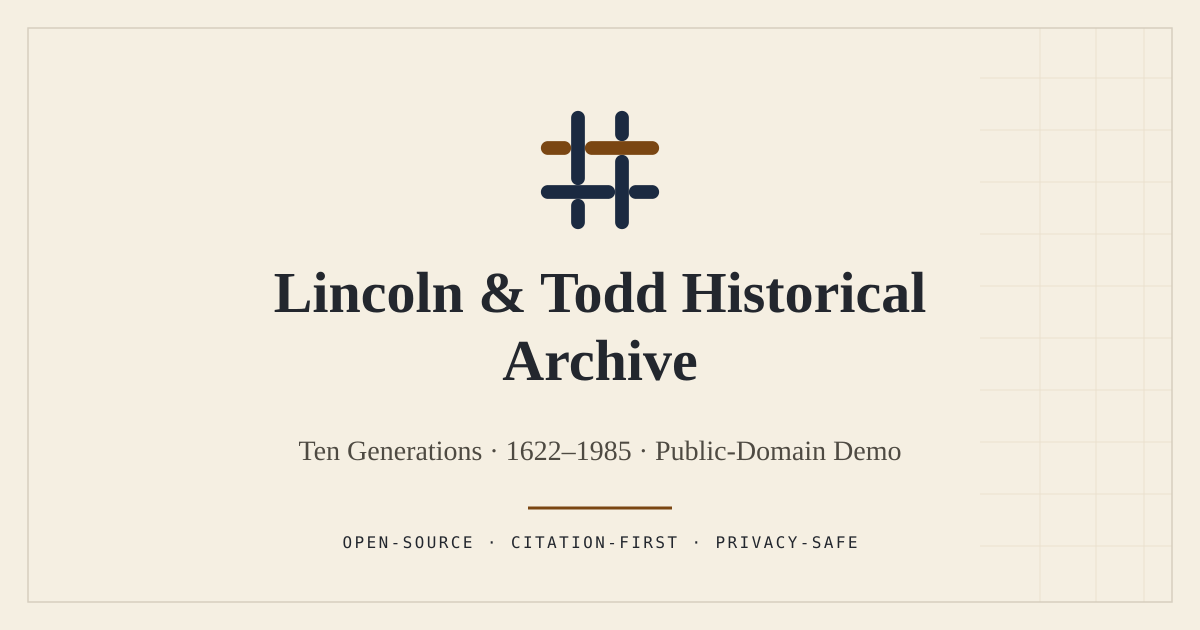
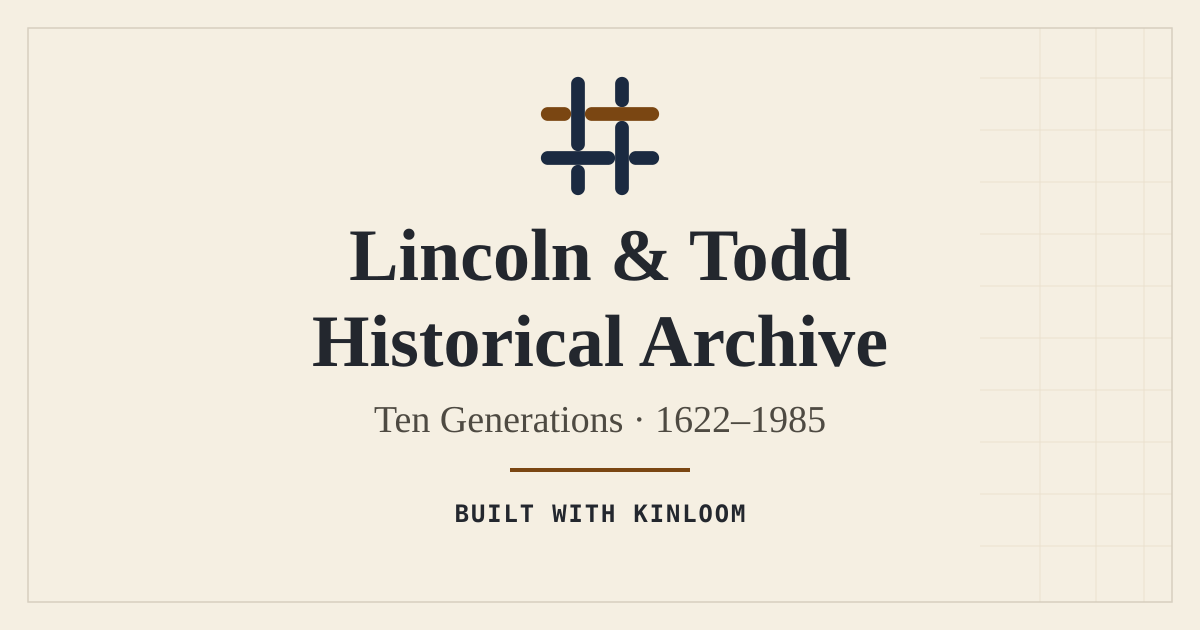
fix(brandkit): enlarge OG card typography and simplify copy for mobile readability

Changed region(s): [[0.2158, 0.1206, 0.7708, 0.6032], [0.2467, 0.6333, 0.74, 0.754], [0.2775, 0.7841, 0.7092, 0.8746]]

diff --git a/packages/core/src/brandkit.ts b/packages/core/src/brandkit.ts
@@ -361,36 +361,36 @@ export function renderOgCardSvg(options: {
     .join('\n    ');
 
   if (options.vignetteDataUri) {
-    const titleLines = wrapTextLines(options.title, 20, 2);
-    const titleFontSize = titleLines.some((line) => line.length > 16) ? 54 : 62;
-    const titleStartY = titleLines.length === 1 ? 268 : 246;
+    const titleLines = wrapTextLines(options.title, 18, 2);
+    const titleFontSize = titleLines.some((line) => line.length > 14) ? 62 : 70;
+    const titleStartY = titleLines.length === 1 ? 268 : 238;
     const titleSvg = titleLines
       .map(
         (line, idx) =>
-          `<text x="96" y="${titleStartY + idx * (titleFontSize + 10)}" fill="${titleColor}" font-family="${serifFont}" font-size="${titleFontSize}" font-weight="600">${escapeXml(line)}</text>`
+          `<text x="90" y="${titleStartY + idx * (titleFontSize + 12)}" fill="${titleColor}" font-family="${serifFont}" font-size="${titleFontSize}" font-weight="700">${escapeXml(line)}</text>`
       )
       .join('\n    ');
 
-    const ruleY = titleStartY + titleLines.length * (titleFontSize + 10) + 12;
-    const subtitleLines = wrapTextLines(options.subtitle, 34, 2);
+    const ruleY = titleStartY + titleLines.length * (titleFontSize + 12) + 14;
+    const subtitleLines = wrapTextLines(options.subtitle, 28, 2);
     const subtitleSvg = subtitleLines
       .map(
         (line, idx) =>
-          `<text x="96" y="${ruleY + 42 + idx * 32}" fill="${subtitleColor}" font-family="${serifFont}" font-size="26">${escapeXml(line)}</text>`
+          `<text x="90" y="${ruleY + 48 + idx * 42}" fill="${subtitleColor}" font-family="${serifFont}" font-size="34" font-weight="500">${escapeXml(line)}</text>`
       )
       .join('\n    ');
 
-    const metaY = ruleY + 42 + subtitleLines.length * 32 + 16;
+    const metaY = ruleY + 48 + subtitleLines.length * 42 + 20;
     const metaSvg = options.metadataLine
-      ? `<text x="96" y="${Math.min(metaY, 512)}" fill="${subtitleColor}" font-family="${monoFont}" font-size="16" letter-spacing="2.2">${escapeXml(options.metadataLine.toUpperCase())}</text>`
+      ? `<text x="90" y="${Math.min(metaY, 514)}" fill="${titleColor}" font-family="${monoFont}" font-size="22" font-weight="600" letter-spacing="1.6">${escapeXml(options.metadataLine.toUpperCase())}</text>`
       : '';
 
     const footerSvg = options.footerCredit
-      ? `<text x="96" y="558" fill="${subtitleColor}" font-family="${monoFont}" font-size="14" letter-spacing="2">${escapeXml(options.footerCredit.toUpperCase())}</text>`
+      ? `<text x="90" y="562" fill="${subtitleColor}" font-family="${monoFont}" font-size="20" font-weight="600" letter-spacing="1.6">${escapeXml(options.footerCredit.toUpperCase())}</text>`
       : '';
 
     const kickerSvg = options.kicker
-      ? `<text x="160" y="138" fill="${accent}" font-family="${monoFont}" font-size="15" font-weight="600" letter-spacing="2.4">${escapeXml(options.kicker.toUpperCase())}</text>`
+      ? `<text x="160" y="138" fill="${accent}" font-family="${monoFont}" font-size="20" font-weight="600" letter-spacing="2">${escapeXml(options.kicker.toUpperCase())}</text>`
       : '';
 
     return `<svg xmlns="http://www.w3.org/2000/svg" viewBox="0 0 ${width} ${height}" width="${width}" height="${height}" fill="none">
@@ -401,12 +401,12 @@ export function renderOgCardSvg(options: {
   </defs>
   <rect x="0" y="0" width="${width}" height="${height}" fill="${bg}"/>
   <rect x="34" y="34" width="${width - 68}" height="${height - 68}" fill="${cardBg}" stroke="${ruleColor}" stroke-width="1.5"/>
-  <g transform="translate(96, 102) scale(2)">
+  <g transform="translate(90, 96) scale(2.2)">
     ${markContent}
   </g>
   ${kickerSvg}
   ${titleSvg}
-  <line x1="96" y1="${ruleY}" x2="660" y2="${ruleY}" stroke="${accent}" stroke-width="3"/>
+  <line x1="90" y1="${ruleY}" x2="660" y2="${ruleY}" stroke="${accent}" stroke-width="4"/>
   ${subtitleSvg}
   ${metaSvg}
   ${footerSvg}
@@ -416,37 +416,38 @@ export function renderOgCardSvg(options: {
 `;
   }
 
-  const titleLines = wrapTextLines(options.title, 26, 2);
-  const titleFontSize = titleLines.some((line) => line.length > 20) ? 58 : 72;
-  const titleStartY = titleLines.length === 1 ? 336 : 312;
+  // Centered editorial layout tuned for high-contrast phone legibility inside the 1080x600 safe zone
+  const titleLines = wrapTextLines(options.title, 22, 2);
+  const titleFontSize = titleLines.length === 1 ? 86 : 74;
+  const titleStartY = titleLines.length === 1 ? 320 : 280;
   const titleSvg = titleLines
     .map(
       (line, idx) =>
-        `<text x="600" y="${titleStartY + idx * (titleFontSize + 10)}" text-anchor="middle" fill="${titleColor}" font-family="${serifFont}" font-size="${titleFontSize}" font-weight="600">${escapeXml(line)}</text>`
+        `<text x="600" y="${titleStartY + idx * (titleFontSize + 12)}" text-anchor="middle" fill="${titleColor}" font-family="${serifFont}" font-size="${titleFontSize}" font-weight="700">${escapeXml(line)}</text>`
     )
     .join('\n  ');
 
-  const subtitleY = titleStartY + titleLines.length * (titleFontSize + 10) + 12;
-  const subtitleLines = wrapTextLines(options.subtitle, 54, 2);
+  const subtitleY = titleStartY + (titleLines.length - 1) * (titleFontSize + 12) + 66;
+  const subtitleLines = wrapTextLines(options.subtitle, 42, 2);
   const subtitleSvg = subtitleLines
     .map(
       (line, idx) =>
-        `<text x="600" y="${subtitleY + idx * 34}" text-anchor="middle" fill="${subtitleColor}" font-family="${serifFont}" font-size="28">${escapeXml(line)}</text>`
+        `<text x="600" y="${subtitleY + idx * 46}" text-anchor="middle" fill="${subtitleColor}" font-family="${serifFont}" font-size="38" font-weight="500">${escapeXml(line)}</text>`
     )
     .join('\n  ');
 
-  const ruleY = subtitleY + subtitleLines.length * 34 + 14;
-  const metaY = Math.min(ruleY + 42, 548);
+  const ruleY = subtitleY + (subtitleLines.length - 1) * 46 + 38;
+  const metaY = Math.min(ruleY + 52, 566);
   const metaText = options.metadataLine?.trim() || options.footerCredit?.trim() || '';
   const metaSvg = metaText
-    ? `<text x="600" y="${metaY}" text-anchor="middle" fill="${titleColor}" font-family="${monoFont}" font-size="16" font-weight="500" letter-spacing="2.4">${escapeXml(metaText.toUpperCase())}</text>`
+    ? `<text x="600" y="${metaY}" text-anchor="middle" fill="${titleColor}" font-family="${monoFont}" font-size="24" font-weight="600" letter-spacing="1.8">${escapeXml(metaText.toUpperCase())}</text>`
     : '';
 
   const kickerSvg = options.kicker
-    ? `<text x="600" y="92" text-anchor="middle" fill="${accent}" font-family="${monoFont}" font-size="15" font-weight="600" letter-spacing="2.6">${escapeXml(options.kicker.toUpperCase())}</text>`
+    ? `<text x="600" y="84" text-anchor="middle" fill="${accent}" font-family="${monoFont}" font-size="22" font-weight="600" letter-spacing="2.2">${escapeXml(options.kicker.toUpperCase())}</text>`
     : '';
 
-  const markY = options.kicker ? 116 : 104;
+  const markY = options.kicker ? 102 : 70;
 
   return `<svg xmlns="http://www.w3.org/2000/svg" viewBox="0 0 ${width} ${height}" width="${width}" height="${height}" fill="none">
   <rect x="0" y="0" width="${width}" height="${height}" fill="${bg}"/>
@@ -461,7 +462,7 @@ export function renderOgCardSvg(options: {
   </g>
   ${titleSvg}
   ${subtitleSvg}
-  <line x1="528" y1="${ruleY}" x2="672" y2="${ruleY}" stroke="${accent}" stroke-width="3"/>
+  <line x1="510" y1="${ruleY}" x2="690" y2="${ruleY}" stroke="${accent}" stroke-width="4"/>
   ${metaSvg}
 </svg>
 `;
